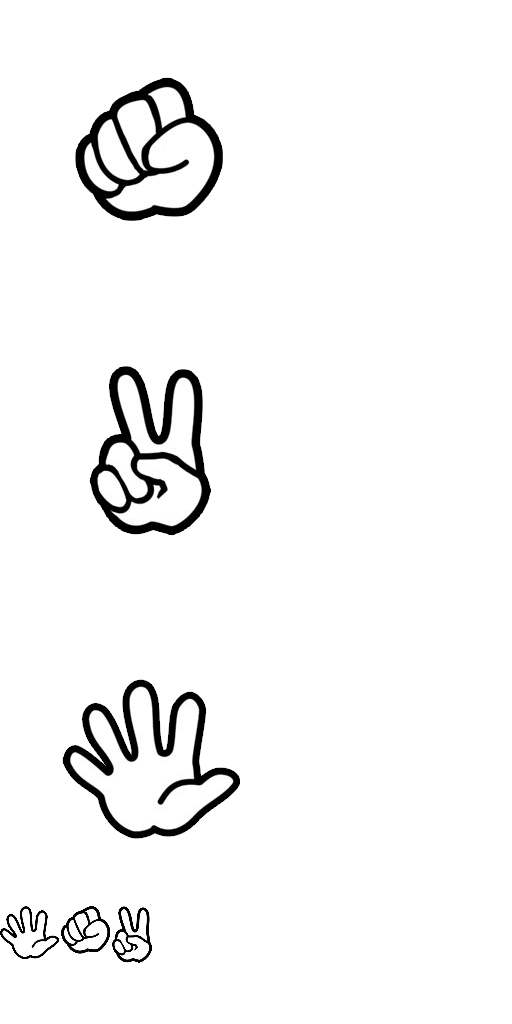
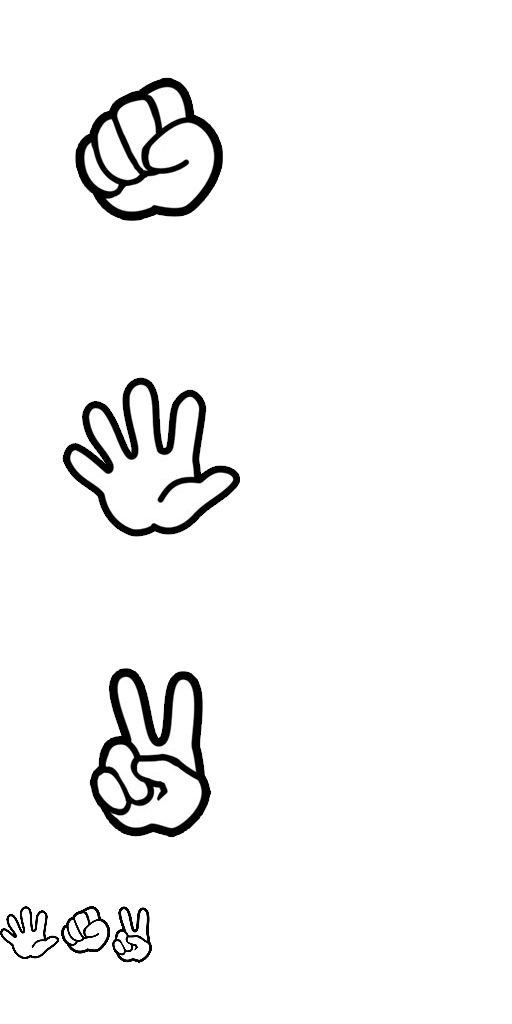
演出を少し追加

Changed region(s): [[0.125, 0.3438, 0.4688, 0.5312], [0.125, 0.6562, 0.4688, 0.8125]]

diff --git a/jyankenSample.js b/jyankenSample.js
@@ -59,6 +59,19 @@ lib.properties = {
 
 
 
+(lib.シンボル10 = function() {
+	this.initialize();
+
+	// レイヤー 1
+	this.shape = new cjs.Shape();
[1 lines of base64/hex data omitted]
+	this.shape.setTransform(339.5,275);
+
+	this.addChild(this.shape);
+}).prototype = p = new cjs.Container();
+p.nominalBounds = new cjs.Rectangle(0,0,679,550);
+
+
 (lib.シンボル9 = function(mode,startPosition,loop) {
 	this.initialize(mode,startPosition,loop,{});
 
@@ -656,15 +669,29 @@ p.nominalBounds = new cjs.Rectangle(0,0,413,204);
 	this.initialize();
 
 	// レイヤー 1
-	this.text = new cjs.Text("じゃんけん", "80px 'A-OTF Maru Folk Pro R'", "#CC0033");
-	this.text.textAlign = "center";
-	this.text.lineHeight = 82;
-	this.text.lineWidth = 465;
-	this.text.setTransform(232.5,0);
+	this.shape = new cjs.Shape();
+	this.shape.graphics.f("#FBB500").s().p("AhbBgQAMgpAfhUIAdhKIAWAIIgbBZQAMgFAMAAQAQAAAMAKQAQALAAAZQAAARgEAQQAfgCAVABIAAAaQgHACghABIgxAAQAJgpAAgOQAAgagSAAQgQAAgPAMQgRAwgNAdg");
+	this.shape.setTransform(399.9,42.2,3.954,3.954);
 
-	this.addChild(this.text);
+	this.shape_1 = new cjs.Shape();
[1 lines of base64/hex data omitted]
+	this.shape_1.setTransform(324,44.1,3.954,3.954);
+
+	this.shape_2 = new cjs.Shape();
+	this.shape_2.graphics.f("#FBB500").s().p("AhbBgQAMgpAfhUIAdhKIAWAIIgbBZQAMgFAMAAQAQAAAMAKQAQALAAAZQAAARgEAQQAfgCAVABIAAAaIgoADIgxAAQAJgnAAgQQAAgagSAAQgPAAgQAMIgeBNg");
+	this.shape_2.setTransform(237,42.2,3.954,3.954);
+
+	this.shape_3 = new cjs.Shape();
[1 lines of base64/hex data omitted]
+	this.shape_3.setTransform(159.5,50.8,3.954,3.954);
+
+	this.shape_4 = new cjs.Shape();
[1 lines of base64/hex data omitted]
+	this.shape_4.setTransform(81.9,42.5,3.954,3.954);
+
+	this.addChild(this.shape_4,this.shape_3,this.shape_2,this.shape_1,this.shape);
 }).prototype = p = new cjs.Container();
-p.nominalBounds = new cjs.Rectangle(0,0,469,86.2);
+p.nominalBounds = new cjs.Rectangle(51.6,0.9,385,84.6);
 
 
 (lib.drow = function() {
@@ -1204,11 +1231,28 @@ p.nominalBounds = new cjs.Rectangle(-150,-43,300,86);
 p.nominalBounds = new cjs.Rectangle(-40,-40,81,80);
 
 
+(lib.シンボル11 = function() {
+	this.initialize();
+
+	// レイヤー 1
+	this.instance = new lib.シンボル10();
+	this.instance.setTransform(339.4,275,1,1,0,0,0,339.4,275);
+	this.instance.alpha = 0.5;
+
+	this.shape = new cjs.Shape();
+	this.shape.graphics.f().s("#000000").ss(1,1,1).p("Eg1Bgq9MBqDAAAMAAABV7MhqDAAAg");
+	this.shape.setTransform(339.5,275);
+
+	this.addChild(this.shape,this.instance);
+}).prototype = p = new cjs.Container();
+p.nominalBounds = new cjs.Rectangle(-1,-1,681,552);
+
+
 (lib.シンボル5 = function(mode,startPosition,loop) {
 	this.initialize(mode,startPosition,loop,{});
 
 	// timeline functions:
-	this.frame_9 = function() {
+	this.frame_30 = function() {
 		var that = this;
 		
 		this.stop();
@@ -1218,16 +1262,22 @@ p.nominalBounds = new cjs.Rectangle(-40,-40,81,80);
 	}
 
 	// actions tween:
-	this.timeline.addTween(cjs.Tween.get(this).wait(9).call(this.frame_9).wait(1));
+	this.timeline.addTween(cjs.Tween.get(this).wait(30).call(this.frame_30).wait(1));
 
 	// レイヤー 1
 	this.instance = new lib.janken();
 	this.instance.setTransform(234.5,43.1,1,1,0,0,0,234.5,43.1);
 
-	this.timeline.addTween(cjs.Tween.get(this.instance).wait(1).to({scaleX:1.05,scaleY:1.05},0).wait(1).to({scaleX:1.09,scaleY:1.09,x:234.6},0).wait(1).to({scaleX:1.14,scaleY:1.14,y:43.2},0).wait(1).to({scaleX:1.18,scaleY:1.18,x:234.5},0).wait(1).to({scaleX:1.23,scaleY:1.23,x:234.6,y:43.1},0).wait(1).to({scaleX:1.27,scaleY:1.27},0).wait(1).to({scaleX:1.32,scaleY:1.32,x:234.5},0).wait(1).to({scaleX:1.36,scaleY:1.36,x:234.6,y:43.2,alpha:0.5},0).wait(1).to({scaleX:1.41,scaleY:1.41,alpha:0},0).wait(1));
+	this.timeline.addTween(cjs.Tween.get(this.instance).wait(1).to({regX:244.1,regY:43.2,scaleX:1.02,scaleY:1.02,x:244.3,y:43.2},0).wait(1).to({scaleX:1.03,scaleY:1.03,x:244.5,y:43.3},0).wait(1).to({scaleX:1.05,scaleY:1.05,x:244.7},0).wait(1).to({scaleX:1.07,scaleY:1.07,x:244.8},0).wait(1).to({scaleX:1.09,scaleY:1.09,x:245,y:43.2},0).wait(1).to({scaleX:1.11,scaleY:1.11,x:245.2,y:43.3},0).wait(1).to({scaleX:1.12,scaleY:1.12,x:245.4},0).wait(1).to({scaleX:1.14,scaleY:1.14,x:245.5},0).wait(1).to({scaleX:1.16,scaleY:1.16,x:245.7},0).wait(1).to({scaleX:1.18,scaleY:1.18,x:245.9},0).wait(1).to({scaleX:1.2,scaleY:1.2,x:246},0).wait(1).to({scaleX:1.21,scaleY:1.21,x:246.2},0).wait(1).to({scaleX:1.23,scaleY:1.23,x:246.4},0).wait(1).to({scaleX:1.25,scaleY:1.25,x:246.5},0).wait(1).to({scaleX:1.26,scaleY:1.26,x:246.7},0).wait(1).to({scaleX:1.28,scaleY:1.28,x:246.9},0).wait(1).to({scaleX:1.3,scaleY:1.3,x:247},0).wait(1).to({scaleX:1.32,scaleY:1.32,x:247.2},0).wait(1).to({scaleX:1.33,scaleY:1.33,x:247.3,alpha:0.833},0).wait(1).to({scaleX:1.35,scaleY:1.35,x:247.5,alpha:0.667},0).wait(1).to({scaleX:1.36,scaleY:1.36,x:247.7,alpha:0.5},0).wait(1).to({scaleX:1.38,scaleY:1.38,x:247.8,alpha:0.333},0).wait(1).to({scaleX:1.39,scaleY:1.39,x:248,alpha:0.167},0).wait(1).to({scaleX:1.41,scaleY:1.41,x:248.1,alpha:0},0).to({_off:true},1).wait(6));
+
+	// レイヤー 3
+	this.instance_1 = new lib.シンボル11();
+	this.instance_1.setTransform(186.4,-17.8,1,1,0,0,0,339.4,275);
+
+	this.timeline.addTween(cjs.Tween.get(this.instance_1).wait(1).to({regX:339.5,x:186.5,alpha:0.967},0).wait(1).to({alpha:0.933},0).wait(1).to({alpha:0.9},0).wait(1).to({alpha:0.867},0).wait(1).to({alpha:0.833},0).wait(1).to({alpha:0.8},0).wait(1).to({alpha:0.767},0).wait(1).to({alpha:0.733},0).wait(1).to({alpha:0.7},0).wait(1).to({alpha:0.667},0).wait(1).to({alpha:0.633},0).wait(1).to({alpha:0.6},0).wait(1).to({alpha:0.567},0).wait(1).to({alpha:0.533},0).wait(1).to({alpha:0.5},0).wait(1).to({alpha:0.467},0).wait(1).to({alpha:0.433},0).wait(1).to({alpha:0.4},0).wait(1).to({alpha:0.367},0).wait(1).to({alpha:0.333},0).wait(1).to({alpha:0.3},0).wait(1).to({alpha:0.267},0).wait(1).to({alpha:0.233},0).wait(1).to({alpha:0.2},0).wait(1).to({alpha:0.167},0).wait(1).to({alpha:0.133},0).wait(1).to({alpha:0.1},0).wait(1).to({alpha:0.067},0).wait(1).to({alpha:0.033},0).wait(1).to({alpha:0},0).wait(1));
 
 }).prototype = p = new cjs.MovieClip();
-p.nominalBounds = new cjs.Rectangle(0,0,469,86.2);
+p.nominalBounds = new cjs.Rectangle(-153.5,-293.3,680,551);
 
 
 (lib.MC_win = function(mode,startPosition,loop) {
@@ -1256,18 +1306,18 @@ p.nominalBounds = new cjs.Rectangle(-205,-100,410,204);
 	this.initialize(mode,startPosition,loop,{});
 
 	// timeline functions:
-	this.frame_23 = function() {
+	this.frame_51 = function() {
 		this.stop();
 	}
 
 	// actions tween:
-	this.timeline.addTween(cjs.Tween.get(this).wait(23).call(this.frame_23).wait(1));
+	this.timeline.addTween(cjs.Tween.get(this).wait(51).call(this.frame_51).wait(1));
 
 	// レイヤー 1
 	this.instance = new lib.シンボル7();
 	this.instance.setTransform(0.2,-366.9,1,1,0,0,0,209.8,47.7);
 
-	this.timeline.addTween(cjs.Tween.get(this.instance).wait(1).to({scaleX:0.96,scaleY:0.98,x:0.4,y:-351.1},0).wait(1).to({scaleX:0.92,scaleY:0.96,x:0.5,y:-335.2},0).wait(1).to({scaleX:0.89,scaleY:0.94,x:0.7,y:-319.4},0).wait(1).to({scaleX:0.85,scaleY:0.92,x:1.6,y:-261.9},0).wait(1).to({scaleX:0.82,scaleY:0.9,x:2.4,y:-204.4},0).wait(1).to({scaleX:0.79,scaleY:0.87,x:3.2,y:-146.9},0).wait(1).to({scaleX:0.76,scaleY:0.85,x:1.7,y:-171.4},0).wait(1).to({scaleX:0.76,scaleY:0.83,x:0.2,y:-195.9},0).wait(1).to({scaleX:0.77,scaleY:0.81},0).wait(1).to({scaleX:0.78,scaleY:0.79},0).wait(1).to({scaleX:0.77,scaleY:0.77},0).wait(1).to({scaleX:0.76,scaleY:0.75},0).wait(1).to({scaleX:0.75,scaleY:0.81},0).wait(1).to({scaleX:0.76,scaleY:0.88},0).wait(1).to({scaleX:0.77,scaleY:0.95},0).wait(1).to({scaleX:0.78,scaleY:1.01},0).wait(1).to({scaleX:0.78,scaleY:1.08},0).wait(1).to({scaleX:0.78,scaleY:1.14},0).wait(1).to({scaleX:0.76,scaleY:1.21},0).wait(1).to({scaleX:0.8,scaleY:1.16},0).wait(1).to({scaleX:0.94,scaleY:1.1},0).wait(1).to({scaleX:1.14,scaleY:1.05},0).wait(1).to({scaleX:1,scaleY:1},0).wait(1));
+	this.timeline.addTween(cjs.Tween.get(this.instance).wait(1).to({scaleX:0.99,scaleY:0.99,y:-360.1},0).wait(1).to({scaleX:0.97,scaleY:0.98,x:0.3,y:-353.3},0).wait(1).to({scaleX:0.95,scaleY:0.97,x:0.4,y:-346.6},0).wait(1).to({scaleX:0.93,scaleY:0.95,x:0.5,y:-339.8},0).wait(1).to({scaleX:0.91,scaleY:0.94,x:0.6,y:-333},0).wait(1).to({scaleX:0.9,scaleY:0.93,y:-326.2},0).wait(1).to({scaleX:0.88,scaleY:0.92,x:0.7,y:-319.4},0).wait(1).to({scaleX:0.85,scaleY:0.91,x:1.1,y:-290.6},0).wait(1).to({scaleX:0.83,scaleY:0.9,x:1.5,y:-261.9},0).wait(1).to({scaleX:0.81,scaleY:0.89,x:1.9,y:-233.1},0).wait(1).to({scaleX:0.79,scaleY:0.87,x:2.4,y:-204.4},0).wait(1).to({scaleX:0.77,scaleY:0.86,x:2.8,y:-175.7},0).wait(1).to({scaleX:0.76,scaleY:0.85,x:3.2,y:-146.9},0).wait(1).to({scaleX:0.87,scaleY:0.84,x:2.6,y:-156.7},0).wait(1).to({scaleX:0.96,scaleY:0.83,x:2,y:-166.5},0).wait(1).to({scaleX:1.04,scaleY:0.82,x:1.4,y:-176.3},0).wait(1).to({scaleX:1.09,scaleY:0.81,x:0.8,y:-186.1},0).wait(1).to({scaleX:1.13,scaleY:0.79,x:0.2,y:-195.9},0).wait(1).to({scaleX:1.15,scaleY:0.78},0).wait(1).to({scaleX:1.17,scaleY:0.77},0).wait(1).to({scaleX:1.18,scaleY:0.76},0).wait(1).to({scaleX:1.18,scaleY:0.75},0).wait(1).to({scaleX:1.18,scaleY:0.83},0).wait(1).to({scaleX:1.17,scaleY:0.9},0).wait(1).to({scaleX:1.16,scaleY:0.98},0).wait(1).to({scaleX:1.14,scaleY:1.05},0).wait(1).to({scaleX:1.12,scaleY:1.13},0).wait(1).to({scaleX:1.09,scaleY:1.21},0).wait(1).to({scaleX:1.06,scaleY:1.2},0).wait(1).to({scaleX:1.03,scaleY:1.19},0).wait(1).to({scaleX:1,scaleY:1.18},0).wait(1).to({scaleX:0.97,scaleY:1.17},0).wait(1).to({scaleX:0.94,scaleY:1.16},0).wait(1).to({scaleX:0.92,scaleY:1.15},0).wait(1).to({scaleX:0.89,scaleY:1.14},0).wait(1).to({scaleX:0.87,scaleY:1.14},0).wait(1).to({scaleX:0.86,scaleY:1.13},0).wait(1).to({scaleX:0.86,scaleY:1.12},0).wait(1).to({scaleX:0.87,scaleY:1.11},0).wait(1).to({scaleX:0.9,scaleY:1.1},0).wait(1).to({scaleX:0.94,scaleY:1.09},0).wait(1).to({scaleX:1.01,scaleY:1.08},0).wait(1).to({scaleX:1.11,scaleY:1.07},0).wait(1).to({scaleX:1.2,scaleY:1.06},0).wait(1).to({scaleX:1.18,scaleY:1.05},0).wait(1).to({scaleX:1.16,scaleY:1.05},0).wait(1).to({scaleX:1.14,scaleY:1.04},0).wait(1).to({scaleX:1.12,scaleY:1.03},0).wait(1).to({scaleX:1.08,scaleY:1.02},0).wait(1).to({scaleX:1.04,scaleY:1.01},0).wait(1).to({scaleX:1,scaleY:1},0).wait(1));
 
 }).prototype = p = new cjs.MovieClip();
 p.nominalBounds = new cjs.Rectangle(-209.6,-414.6,419.7,95.4);
@@ -1598,9 +1648,10 @@ p.nominalBounds = new cjs.Rectangle(-40,-40,80,79.1);
 				that.MC_chokiStart.y = -200;
 				that.MC_chokiStart.x = Math.random() * 550;
 			}
+			console.log("MC_itemMove");
 		}
 		
-		setInterval(MC_itemMove, 10);
+		MC_itemMoveTimer = setInterval(MC_itemMove, 10);
 	}
 	this.frame_1 = function() {
 		/* 
@@ -1616,9 +1667,8 @@ p.nominalBounds = new cjs.Rectangle(-40,-40,80,79.1);
 		lostCount = 0;
 		attackCount = 0;
 		
-		this.MC_goo.visible = false;
-		this.MC_par.visible = false;
-		this.MC_choki.visible = false;
+		var slote = 0;
+		
 		this.MC_goo_you.visible = false;
 		this.MC_par_you.visible = false;
 		this.MC_choki_you.visible = false;
@@ -1630,13 +1680,42 @@ p.nominalBounds = new cjs.Rectangle(-40,-40,80,79.1);
 		that.MC_addScore.MC_addScore_tween.text_addScore.text = "";
 		gameOnFlag = 0;
 		
+		clearInterval(MC_itemMoveTimer);
+		
 		/*
 		ぐー = 0;
 		ちょき = 1;
 		ぱー = 2;
 		*/
 		
-		//this.text_score.text = 100;
+		function sloteEvent() {
+			//ランダムで出すよりも順番に出した方がスムーズで良さそう。
+			//slote = Math.floor(Math.random() * 3);
+			slote++;
+			if(slote == 3){slote = 0;}
+			switch (slote) {
+				case 0:
+					that.MC_goo.visible = true;
+					that.MC_par.visible = false;
+					that.MC_choki.visible = false;
+					break;
+				case 1:
+					that.MC_goo.visible = false;
+					that.MC_par.visible = false;
+					that.MC_choki.visible = true;
+					break;
+				case 2:
+					that.MC_goo.visible = false;
+					that.MC_par.visible = true;
+					that.MC_choki.visible = false;
+					break;
+				default:
+					break;
+			}
+			console.log("sloteEvent");
+		}
+		//スロットな感じを表現
+		sloteEventTimer = setInterval(sloteEvent, 100);
 		
 		function jankenEvent(you) {
 			if (you == 0) {
@@ -1654,6 +1733,7 @@ p.nominalBounds = new cjs.Rectangle(-40,-40,80,79.1);
 			}
 		
 			kekka = Math.floor(Math.random() * 3);
+			clearInterval(sloteEventTimer);
 		
 			switch (kekka) {
 				case 0:

diff --git a/jyankenSample.html b/jyankenSample.html
@@ -2,7 +2,6 @@
 <html>
 <head>
 <meta charset="UTF-8">
-<meta name=viewport content="width=device-width, initial-scale=1">
 <title>jyankenSample</title>
 
 <script src="http://code.createjs.com/easeljs-0.8.1.min.js"></script>
